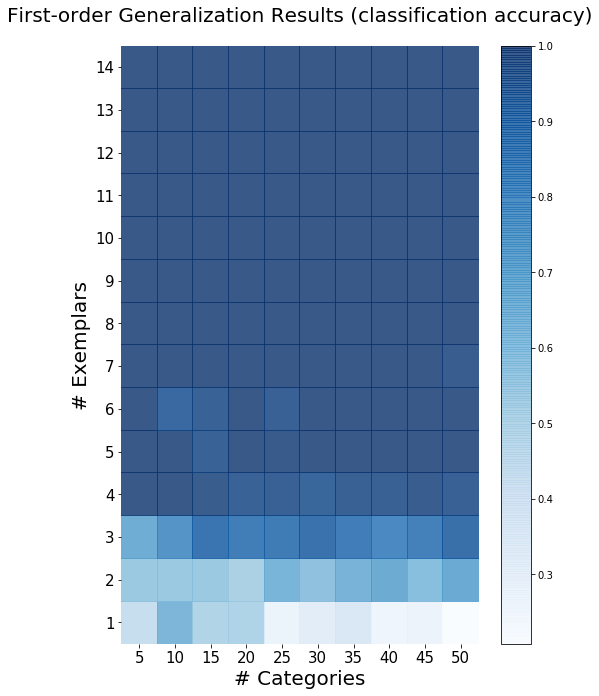
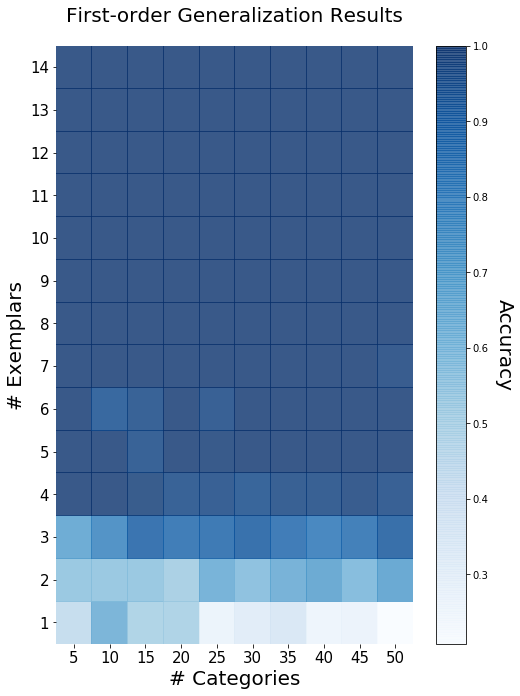
updated readme and results plots

diff --git a/results/README.md b/results/README.md
@@ -1,0 +1,83 @@
+# Results
+Our ultimate goal is to model the infant learning tasks described in
+[Smith et al. 2002](https://www.ncbi.nlm.nih.gov/pubmed/11892773)
+using simple neural network models. In order to do so, we use
+artificial toy data that is designed to mimic the data described in the paper.
+Each object sample is assigned a shape, texture and color value. There are two
+types of model evaluations performed, both drawn from Smith et al. 2002:
+
+### 1. First-order Generalization
+For the first-order generalization test, infants are asked to evaluate novel
+instances of familiar objects. To simulate this test, we trained our neural network models
+to classify objects, ensuring that objects of the same category were assigned
+the same shape. Then, we built a test set by creating one novel exemplar of each
+category that was presented in the training set. The novel
+exemplar has the same shape as the training exemplars of that category, but a
+new color and texture combination. This test was repeated for different training
+set sizes, i.e. different combinations of (# categories, # exemplars).
+
+### 2. Second-order Generalization
+For the second-order generalization test, infants are presented with an exemplar
+of a novel object category as a baseline. Then, they are shown 3 comparison objects:
+one which has the same shape as the baseline, one with the same color, and one
+with the same texture. In each case, the other 2 features are different from
+the baseline. The infants are asked to select which of the 3 comparison objects
+are of the same category as the baseline object. We simulated this test by
+creating an evaluation set containing groupings of 4 samples: the baseline,
+the shape constant, the color constant, and the texture constant. Each grouping
+serves as one test example. We find which of the 3 samples the NN thinks to be
+most similar by evaluating the cosine similarity using the hidden layer features
+of the model. The accuracy metric used is the % of groupings for which the
+model chose the correct (shape-similar) object. This test was repeated for different training
+set sizes, i.e. different combinations of (# categories, # exemplars).
+
+## Simple MLP with Bit-vector Data
+To begin with, we use a simple Multi-layer Perceptron (MLP) that operates on categorical
+data. Since *shape, color, & texture* have categorical feature values, we encode
+the values using unique bit
+vectors that are randomly assigned at the beginning of the experiment. We use a
+simple feed-forward NN with one hidden layer of 30 units, and the ReLU activation
+function. The number of units in the softmax layer depends on the *# categories* parameter
+for the particular dataset.
+
+### 1. First-order Generalization
+Results are shown below for a variety of different (# categories, # exemplars)
+training set sizes. With each dataset, the NN model was trained for 100 epochs. Keep in mind
+that as the # category value increases, the classification task becomes more
+challenging (more possible classes).
+
+Set 1             |  Set 2
+:----------------:|:----------------:
+<img src="https://github.com/rfeinman/toy-neuralnet/blob/master/results/mlp_plot_firstOrder1.png" width="400" height="500"> | <img src="https://github.com/rfeinman/toy-neuralnet/blob/master/results/mlp_plot_firstOrder2.png" width="400" height="300">
+
+### 2. Second-order Generalization
+Results are shown below for a variety of different (# categories, # exemplars)
+training set sizes.
+
+Set 1             |  Set 2
+:----------------:|:----------------:
+<img src="https://github.com/rfeinman/toy-neuralnet/blob/master/results/mlp_plot_secondOrder1.png" width="400" height="500"> | <img src="https://github.com/rfeinman/toy-neuralnet/blob/master/results/mlp_plot_secondOrder2.png" width="400" height="300">
+
+
+## Simple CNN with Image Data
+As a second type of model, we generated artificial images...
+Some examples of the images:
+
+Exemplar #1                |  Exemplar #2
+:-------------------------:|:-------------------------:
+<img src="https://github.com/rfeinman/toy-neuralnet/blob/master/data/images_generated/img0000.png" width="200" height="200"> | <img src="https://github.com/rfeinman/toy-neuralnet/blob/master/data/images_generated/img0001.png" width="200" height="200">
+Shape 0, Color 7, Texture 8 | Shape 0, Color 5, Texture 0
+<img src="https://github.com/rfeinman/toy-neuralnet/blob/master/data/images_generated/img0002.png" width="200" height="200"> | <img src="https://github.com/rfeinman/toy-neuralnet/blob/master/data/images_generated/img0003.png" width="200" height="200">
+Shape 1, Color 5, Texture 7 | Shape 1, Color 4, Texture 4
+<img src="https://github.com/rfeinman/toy-neuralnet/blob/master/data/images_generated/img0004.png" width="200" height="200"> | <img src="https://github.com/rfeinman/toy-neuralnet/blob/master/data/images_generated/img0005.png" width="200" height="200">
+Shape 2, Color 8, Texture 3 | Shape 2, Color 2, Texture 0
+
+### 1. First-order Generalization
+Results are shown below for a variety of different (# categories, # exemplars)
+training set sizes. With each dataset, the NN model was trained for 100 epochs. Keep in mind
+that as the # category value increases, the classification task becomes more
+challenging (more possible classes).
+
+### 2. Second-order Generalization
+Results are shown below for a variety of different (# categories, # exemplars)
+training set sizes.

diff --git a/README.md b/README.md
@@ -39,74 +39,4 @@ This is where the artificial toy data sets will be saved to and loaded from.
 This is where experiment results will be saved to and loaded from.
 
 ## Results
-Our ultimate goal is to model the infant learning tasks described in Smith
-et al. 2002 using simple neural network (NN) models. In order to do so, we use
-artificial toy data that is designed to mimic the data described in the paper.
-Each sample in the dataset is assigned a shape, texture and color value.
-
-### Simple MLP with Bit-vector Data
-To begin with, we use a simple Multi-layer Perceptron (MLP) with one hidden
-layer.
-Since these are categorical feature values, we encode the values using unique bit
-vectors that are randomly assigned at the beginning of the experiment. A given
-training set has a certain number of categories and a certain number of exemplars
-per category; these quantities are varied. The shape values are perfectly
-correlated with the categories, and the texture & color values are selected at
-random from sets of 200 possible values. In Smith et al., there are 2 evaluation
-metrics used: the first-order generalization and the second-order
-generalization. Below, we describe experiments for each case. In both, we use a
-simple feed-forward NN with one hidden layer of 30 units, and the
-ReLU activation function.
-
-#### 1. First-order Generalization
-For the first-order generalization test, infants are asked to evaluate novel
-instances of familiar objects. To simulate this test, we trained our NN model
-to classify objects, ensuring that objects of the same category were assigned
-the same shape in the training set. Then, we built a test set by creating one
-novel instance of each category that was presented in the training set. Results
-are shown below for a variety of different (# category) and (# exemplar/category)
-values. With each dataset, the NN model was trained for 100 epochs. Keep in mind
-that as the # category value increases, the classification task becomes more
-challenging (more possible classes).
-
-Set 1             |  Set 2
-:----------------:|:----------------:
-<img src="https://github.com/rfeinman/toy-neuralnet/blob/master/results/mlp_plot_firstOrder1.png" width="400" height="500"> | <img src="https://github.com/rfeinman/toy-neuralnet/blob/master/results/mlp_plot_firstOrder2.png" width="400" height="300">
-
-#### 2. Second-order Generalization
-For the second-order generalization test, infants are presented with an exemplar
-of a novel object category as a baseline. Then, they are shown 3 comparison objects:
-one which has the same shape as the baseline, one with the same color, and one
-with the same texture. In each case, the other 2 features are different from
-the baseline. The infants are asked to select which of the 3 comparison objects
-are of the same category as the baseline object. We simulated this test by
-creating an evaluation set containing groupings of 4 samples: the baseline,
-the shape constant, the color constant, and the texture constant. Each grouping
-serves as one test example. We find which of the 3 samples the NN thinks to be
-most similar by evaluating the cosine similarity using the hidden layer features
-of the model. The accuracy metric used is the % of groupings for which the
-model chose the correct (shape-similar) object.
-
-Set 1             |  Set 2
-:----------------:|:----------------:
-<img src="https://github.com/rfeinman/toy-neuralnet/blob/master/results/mlp_plot_secondOrder1.png" width="400" height="500"> | <img src="https://github.com/rfeinman/toy-neuralnet/blob/master/results/mlp_plot_secondOrder2.png" width="400" height="300">
-
-
-### Image Data
-
-Some examples of the images:
-
-Exemplar #1                |  Exemplar #2
-:-------------------------:|:-------------------------:
-<img src="https://github.com/rfeinman/toy-neuralnet/blob/master/data/images_generated/img0000.png" width="200" height="200"> | <img src="https://github.com/rfeinman/toy-neuralnet/blob/master/data/images_generated/img0001.png" width="200" height="200">
-Shape 0, Color 7, Texture 8 | Shape 0, Color 5, Texture 0
-<img src="https://github.com/rfeinman/toy-neuralnet/blob/master/data/images_generated/img0002.png" width="200" height="200"> | <img src="https://github.com/rfeinman/toy-neuralnet/blob/master/data/images_generated/img0003.png" width="200" height="200">
-Shape 1, Color 5, Texture 7 | Shape 1, Color 4, Texture 4
-<img src="https://github.com/rfeinman/toy-neuralnet/blob/master/data/images_generated/img0004.png" width="200" height="200"> | <img src="https://github.com/rfeinman/toy-neuralnet/blob/master/data/images_generated/img0005.png" width="200" height="200">
-Shape 2, Color 8, Texture 3 | Shape 2, Color 2, Texture 0
-
-Results:
-* Small toy dataset with 10 categories and 2 exemplars per category
-* % time correct match was max: 100%
-* Average cosine similarity for correct matches: 0.830
-* Average cosine similarity for incorrect matches: 0.256
+For a detailed description of results please see results/README.md.
